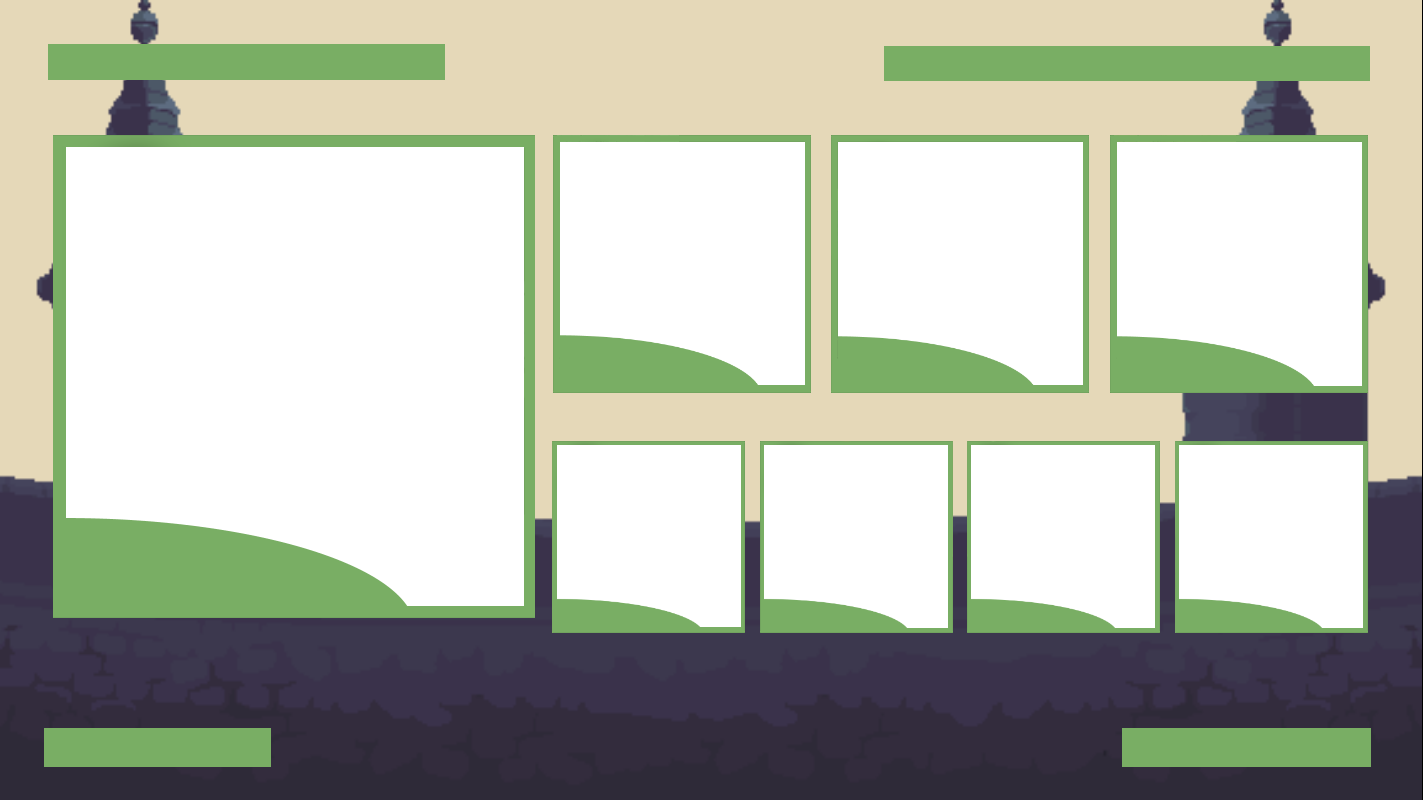
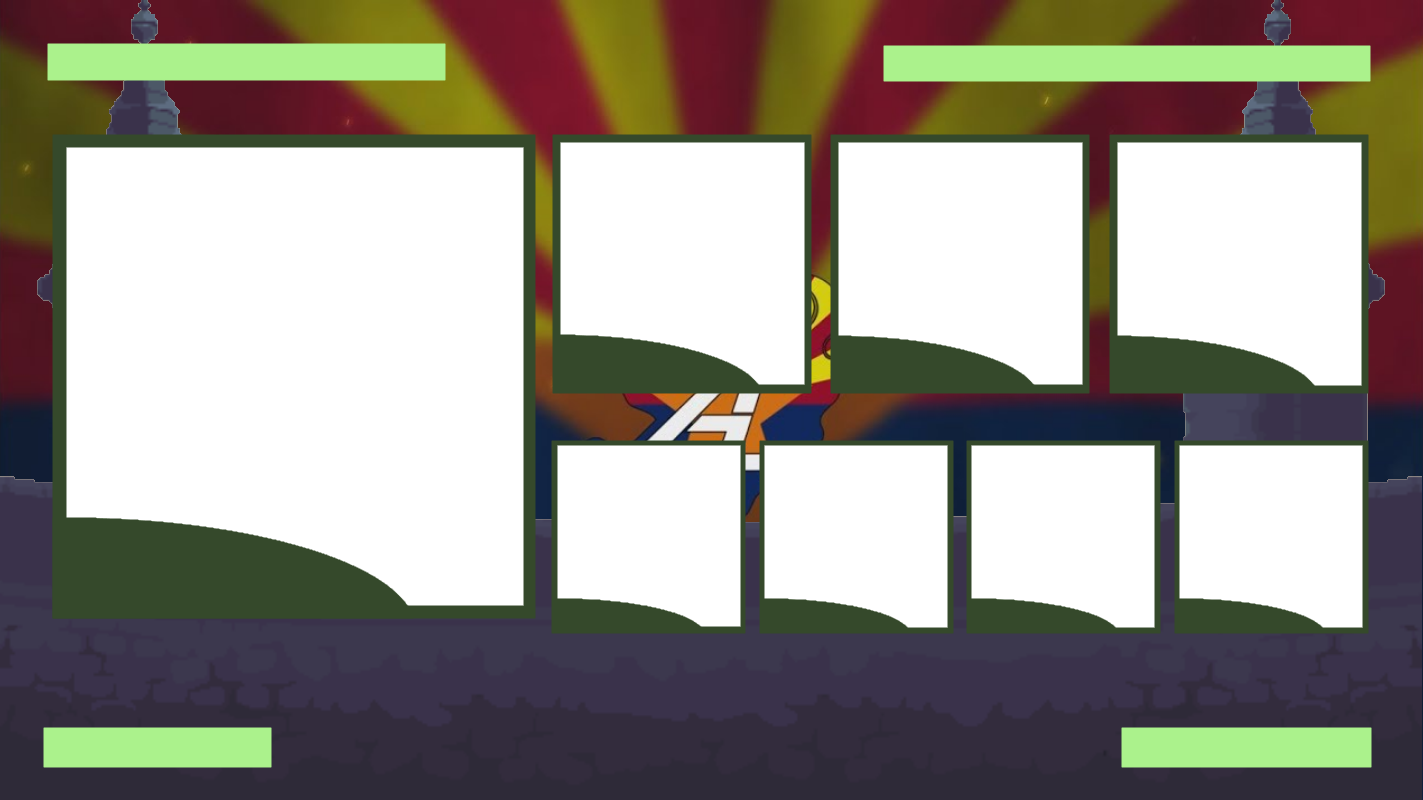
Portrait and other image updates. Some code cleanup in GraphUI.py

diff --git a/GraphUI.py b/GraphUI.py
@@ -23,9 +23,9 @@ with open(apikeys, encoding='UTF8', newline='') as f:
 
     # Use linked portrait if player exists
     for row in fileReader:
-        if (row[0].__contains__("CHALLONGE_API_KEY") and row[1]):
+        if row[0].__contains__("CHALLONGE_API_KEY") and row[1]:
             CHALLONGE_API_KEY = row[1]
-        if (row[0].__contains__("STARTGG_API_KEY") and row[1]):
+        if row[0].__contains__("STARTGG_API_KEY") and row[1]:
             STARTGG_API_KEY = row[1]
 
 if not CHALLONGE_API_KEY:
@@ -86,7 +86,7 @@ class mainWindow:
         # Sprite button settings
         self.characters = ('Absa', 'Clairen', 'Elliana', 'Etalus', 'Forsburn', 'Hodan', 'Kragg', 'Maypul', 'Mollo',
                            'Olympia', 'Orcane', 'Ori and Sein', 'Pomme', 'Ranno', 'Shovel Knight', 'Sylvanos',
-                           'Wraster', 'Zetterburn')
+                           'Wrastor', 'Zetterburn')
         self.playerOneChar = StringVar()
         self.playerTwoChar = StringVar()
         self.playerThreeChar = StringVar()
@@ -584,6 +584,7 @@ class generateFinalGraphic:
         player1ImageSize = (483, 483)
         player1Number = (75, 100, 536, 618)
         player1SecLoc = (480, 155, 510, 185)
+        #player1Zoom = (83, 0, 276, 193)
         player2Region = (553, 135, 811, 393)  # (left, upper, right, lower)
         player2ImageSize = (258, 258)
         player2Number = (562, 125, 536, 618)
@@ -640,35 +641,36 @@ class generateFinalGraphic:
 
         # Set Characters selected from UI
         if application.playerOneChar.get():
-            player1portraitpath = os.path.join(dirname, 'Characters/' + application.playerOneChar.get() + '/Full.png')
+            player1portraitpath = os.path.join(dirname, 'Characters/' + application.playerOneChar.get() + '/square.png')
             portraitpreview = Image.open(player1portraitpath).convert("RGBA")
+            #portraitpreview = portraitpreview.crop(player1Zoom)
             player1Image = portraitpreview.resize(player1ImageSize)
         if application.playerTwoChar.get():
-            player2portraitpath = os.path.join(dirname, 'Characters/' + application.playerTwoChar.get() + '/Full.png')
+            player2portraitpath = os.path.join(dirname, 'Characters/' + application.playerTwoChar.get() + '/square.png')
             portraitpreview = Image.open(player2portraitpath).convert("RGBA")
             player2Image = portraitpreview.resize(player2ImageSize)
         if application.playerThreeChar.get():
-            player3portraitpath = os.path.join(dirname, 'Characters/' + application.playerThreeChar.get() + '/Full.png')
+            player3portraitpath = os.path.join(dirname, 'Characters/' + application.playerThreeChar.get() + '/square.png')
             portraitpreview = Image.open(player3portraitpath).convert("RGBA")
             player3Image = portraitpreview.resize(player3ImageSize)
         if application.playerFourChar.get():
-            player4portraitpath = os.path.join(dirname, 'Characters/' + application.playerFourChar.get() + '/Full.png')
+            player4portraitpath = os.path.join(dirname, 'Characters/' + application.playerFourChar.get() + '/square.png')
             portraitpreview = Image.open(player4portraitpath).convert("RGBA")
             player4Image = portraitpreview.resize(player4ImageSize)
         if application.playerFiveChar.get():
-            player5portraitpath = os.path.join(dirname, 'Characters/' + application.playerFiveChar.get() + '/Full.png')
+            player5portraitpath = os.path.join(dirname, 'Characters/' + application.playerFiveChar.get() + '/square.png')
             portraitpreview = Image.open(player5portraitpath).convert("RGBA")
             player5Image = portraitpreview.resize(player5ImageSize)
         if application.playerSixChar.get():
-            player6portraitpath = os.path.join(dirname, 'Characters/' + application.playerSixChar.get() + '/Full.png')
+            player6portraitpath = os.path.join(dirname, 'Characters/' + application.playerSixChar.get() + '/square.png')
             portraitpreview = Image.open(player6portraitpath).convert("RGBA")
             player6Image = portraitpreview.resize(player6ImageSize)
         if application.playerSevenChar.get():
-            player7portraitpath = os.path.join(dirname, 'Characters/' + application.playerSevenChar.get() + '/Full.png')
+            player7portraitpath = os.path.join(dirname, 'Characters/' + application.playerSevenChar.get() + '/square.png')
             portraitpreview = Image.open(player7portraitpath).convert("RGBA")
             player7Image = portraitpreview.resize(player7ImageSize)
         if application.playerEightChar.get():
-            player8portraitpath = os.path.join(dirname, 'Characters/' + application.playerEightChar.get() + '/Full.png')
+            player8portraitpath = os.path.join(dirname, 'Characters/' + application.playerEightChar.get() + '/square.png')
             portraitpreview = Image.open(player8portraitpath).convert("RGBA")
             player8Image = portraitpreview.resize(player8ImageSize)
 
